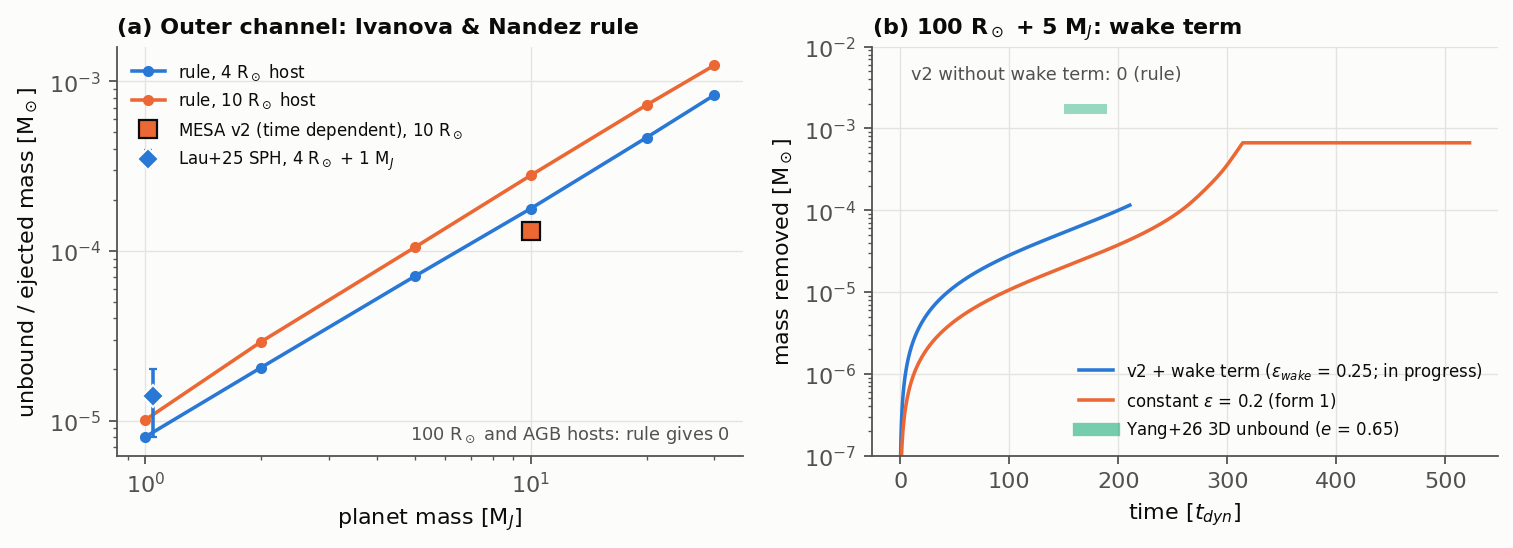
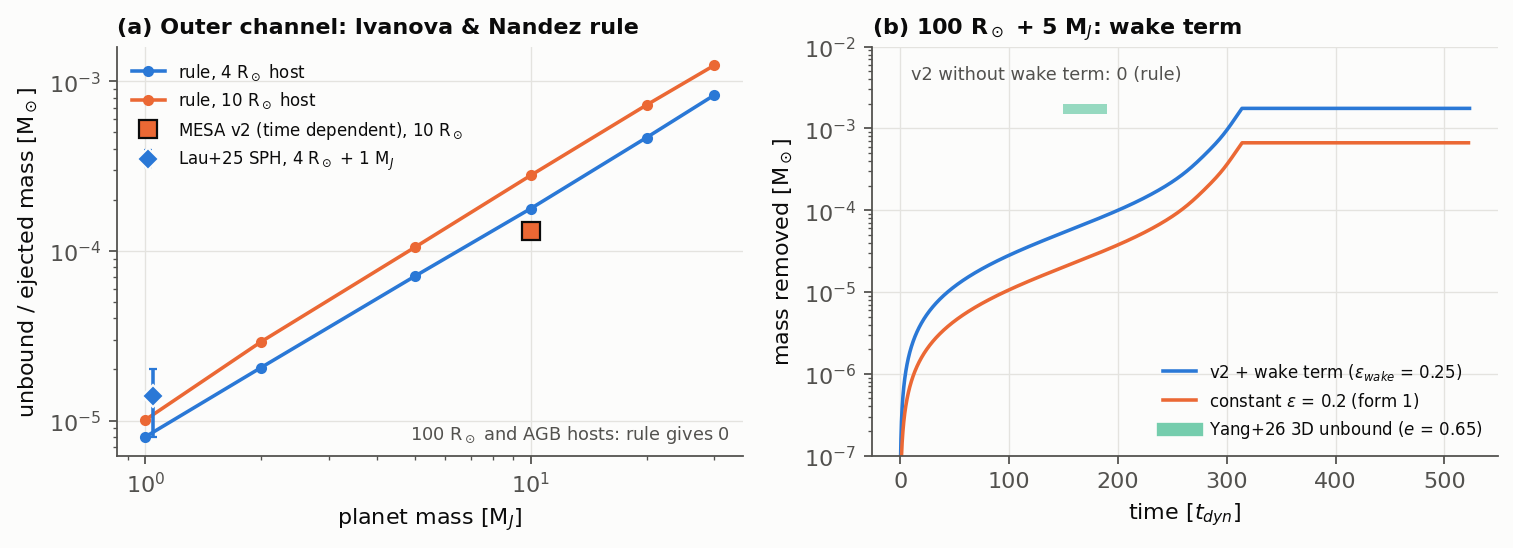
Calibrate eps_wake = 0.25 on Yang+26 (1.75e-3 vs 1.5-2e-3 Msun); default; figures and docs updated

diff --git a/analysis/make_status_figures.py b/analysis/make_status_figures.py
@@ -304,7 +304,7 @@ def fig_v2():
             fontsize=8, color=INK2)
     ax = axes[1]
     td = np.sqrt((100 * RSUN) ** 3 / (G * MSUN)) / YR
-    for run, lab, col in (("v2_yang_wake", "v2 + wake term ($\\epsilon_{wake}$ = 0.25; in progress)", C1),
+    for run, lab, col in (("v2_yang_wake", "v2 + wake term ($\\epsilon_{wake}$ = 0.25)", C1),
                           ("yang_Amech", "constant $\\epsilon$ = 0.2 (form 1)", C2)):
         h = hist(run)
         t = (h["star_age"] - h["star_age"][0]) / td

diff --git a/STATUS.md b/STATUS.md
@@ -36,8 +36,8 @@ literature for the ejection calibration in `docs/ejection_calibration_literature
     - **3 = v2, default.** A time-dependent Ivanova & Nandez 2016 rule (Eq. 32). While the drag energy
       released exceeds the binding of the gas outside min(a, R* − R_inf) plus the energy already spent,
       ε_out = `x_ctrl(18)` = 1 of the drag power removes surface gas at its Bernoulli cost.
-    - Otherwise the fraction is ε_deep (`x_ctrl(19)` = 0) + ε_wake (`x_ctrl(20)` = 0) × the gravitational
-      share of the drag.
+    - Otherwise the fraction is ε_deep (`x_ctrl(19)` = 0) + ε_wake (`x_ctrl(20)` = **0.25**, calibrated on
+      Yang+26) × the gravitational share of the drag.
     - A smooth switch of width `x_ctrl(21)` = 0.2 joins the two regimes. A hard switch crashes the solver.
     - 1 = constant ε (`x_ctrl(15)`); 2 = Γ-limited.
   - 2: option B, which removes outward-moving gas with positive Bernoulli parameter.
@@ -72,7 +72,9 @@ literature for the ejection calibration in `docs/ejection_calibration_literature
    - The time-dependent MESA version is within ×2.2 of the static rule (10 R☉ + 10 M_J: 1.3e-4 vs 2.8e-4 M☉).
    - The rule gives zero ejection for 100 R☉ and AGB hosts, consistent with our option B runs and
      O'Connor+23. Yang+26 (eccentric, gravitational-drag dominated) is the outlier.
-   - Hypothesis being tested: gravitational wakes carry energy to the outer layers (ε_wake term).
+   - Gravitational wakes carry energy to the outer layers. With ε_wake = 0.25 the Yang case gives
+     1.75e-3 M☉, matching Yang+26's 1.5–2e-3 unbound. This is a single calibration point, and their orbit is
+     eccentric.
 7. **Literature** (fig5; `docs/ejection_calibration_literature.md`):
    - Dynamical ejecta come from the outer layers and are locally energy-limited against the Bernoulli
      deficit (δE_orb + δE_bind = 0).
@@ -99,10 +101,10 @@ literature for the ejection calibration in `docs/ejection_calibration_literature
 | `v2_rg10_10MJ`, `v2b_rg10_10MJ` | 10 R☉ + 10 M_J, v2 before the reference-depth fix / hard switch | superseded |
 | `v2c_rg10_10MJ` | 10 R☉ + 10 M_J, v2 with smooth switch | outer phase 1.31e-4 M☉ (static 2.8e-4); later near-surface stall at a = 9.77 R☉; stopped |
 | `v2_yang` | Yang setup, v2, ε_wake = 0 | done: 0 ejected (as the rule predicts) |
-| `v2_yang_wake` | Yang setup, v2, ε_wake = 0.25 | **running at archive time** (1.1e-4 M☉ by 10.6 yr) |
+| `v2_yang_wake` | Yang setup, v2, ε_wake = 0.25 | done: 1.75e-3 M☉ removed at disruption (Yang unbound 1.5–2e-3); ledger passes, orbit ledger 4e-15 |
 
 Runs marked as running live in local scratch
-(`/tmp/claude-1086/-mnt-home-mcantiello-work-engulfments/bc195eef-31c9-49e2-8393-e43d4d38834e/scratchpad/{agb200_10MJ_B,v2_yang_wake}`). Re-sync them to Ceph when they finish:
+(`/tmp/claude-1086/-mnt-home-mcantiello-work-engulfments/bc195eef-31c9-49e2-8393-e43d4d38834e/scratchpad/{agb200_10MJ_B}`). Re-sync them to Ceph when they finish:
 `rsync -a --exclude star --exclude make --exclude starting_models --exclude photos <run>/ runs/2026-09-25/<run>/`.
 
 ## Open issues
@@ -117,9 +119,9 @@ Runs marked as running live in local scratch
 - **r22 reproduction** of the port (needs SDK 22.6.1) was skipped at the user's choice.
 
 ## Next steps
-1. **Finish the wake calibration.** Get `v2_yang_wake`'s final removed mass, and choose ε_wake so that
-   Yang+26's unbound mass (~1.7e-3 M☉) is matched.
-   - Caveat: Yang's orbit is eccentric. Consider an eccentric-equivalent test, or treat Yang as an upper bound.
+1. **Test the wake calibration.** Done at ε_wake = 0.25 on one point. It needs a second gravitational-drag case
+   (e.g. a brown dwarf in an RGB star vs Kramer+20, or MacLeod & Loeb 2020), and a decision on how to treat
+   Yang's eccentric orbit.
 2. **Fix the near-surface solver stiffness.** It blocks compact hosts and massive companions once heat goes
    into tiny outer masses (4 R☉ runs; 10 R☉ + 10 M_J at a ≈ 9.77 R☉). Candidates:
    - kernel over H_P, or a minimum heated mass;

diff --git a/LOG.md b/LOG.md
@@ -205,3 +205,7 @@
 - `v2c` later stalls at a = 9.77 R_sun (10 M_J), the same near-surface stiffness as the compact hosts. Stopped.
 - `v2_yang` finished: 0 ejected (rule). `v2_yang_wake` (ε_wake = 0.25): 1.1e-4 M_sun by 10.6 yr, still running.
 - Fig. 7 (v2 validation) added. STATUS.md updated. Runs archived to Ceph.
+- **Wake-term calibration.** `v2_yang_wake` (ε_wake = 0.25) removed 1.75e-3 M_sun by disruption (Yang+26
+  unbound: 1.5–2e-3). E_wind/E_drag = 0.25. All ledger tests pass; the orbit ledger is 4e-15 now that
+  W_pot includes the mass-removal term.
+  - ε_wake = 0.25 is now the template default. Single calibration point; eccentric-orbit caveat.
